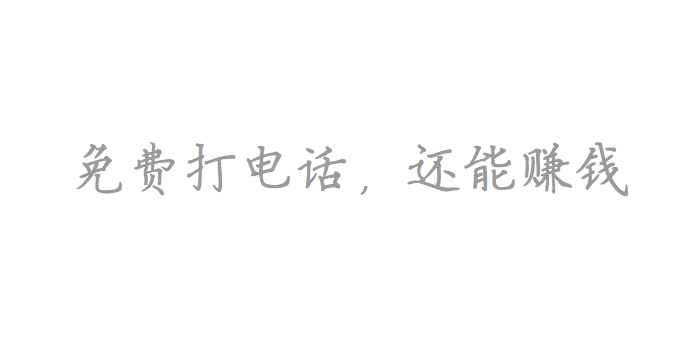
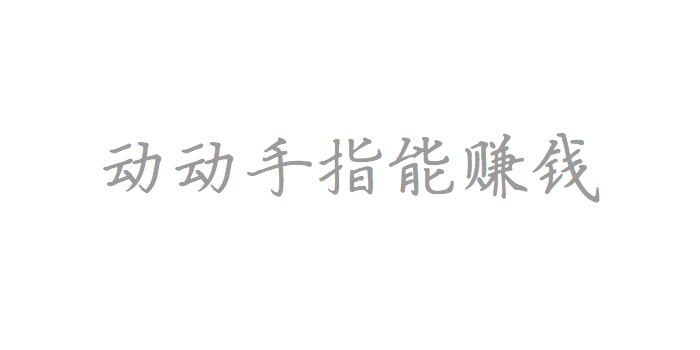
bug修改 UI调整

Changed region(s): [[0.09, 0.3714, 0.9, 0.5714]]

diff --git a/YooSee/YooSee/FunctionVC/Home/HomeViewController.m b/YooSee/YooSee/FunctionVC/Home/HomeViewController.m
@@ -13,13 +13,20 @@
 #define SECTION_HEIGHT              15.0 * CURRENT_SCALE
 #define ROW1_HEIGHT                 50.0
 #define ROW2_HEIGHT                 190.0 * CURRENT_SCALE
-#define ROW3_HEIGHT                 90.0
-#define HEADER_LABEL_WIDTH          60.0
+#define ROW3_HEIGHT                 120.0
+#define HEADER_LABEL_WIDTH          30.0
 #define HEADER_NEW_WIDTH            240.0 * CURRENT_SCALE
 #define BUTTON_TITLE_HEIGHT         30.0 * CURRENT_SCALE
 #define ITEM_BUTTON_TITLE_HEIGHT    25.0 * CURRENT_SCALE
 
 #define LINE_COLOR                  RGB(239.0,239.0,239.0)
+
+#define TIP_TEXT                @" 特别推荐 "
+#define TIP_TEXT_FONT           FONT(14.0)
+#define ADD_X                   10.0
+#define LABEL_HEIGHT            30.0
+#define LINE_HEIGHT             0.5
+#define LINE_SPACE_X            30 * CURRENT_SCALE
 
 #import "HomeViewController.h"
 #import "LoginViewController.h"
@@ -48,7 +55,7 @@
 @property (nonatomic, strong) UILabel *headNewLabel;
 @property (nonatomic, strong) NSArray *headNewsListArray;
 @property (nonatomic, strong) UIView *mainView;
-@property (nonatomic, strong) UIImageView *telephoneView;
+@property (nonatomic, strong) UIImageView *commendView;
 @property (nonatomic, strong) NSTimer *timer;
 @property (nonatomic, assign) int newIndex;
 
@@ -88,7 +95,7 @@
 {
     [self addTableView];
     [self addTableViewHeader];
-    [self addTelephoneView];
+    [self addCommendView];
 }
 
 - (void)addTableView
@@ -112,7 +119,7 @@
         return;
     }
     UIImageView *headerView = [CreateViewTool createImageViewWithFrame:CGRectMake(0, 0, self.table.frame.size.width, ADV_HEIGHT + SPACE_Y) placeholderImage:nil];
-    
+    headerView.backgroundColor = [UIColor whiteColor];
     float y = SPACE_Y;
     float x = SPACE_X;
     NSMutableArray *imageArray = [NSMutableArray arrayWithCapacity:0];
@@ -184,11 +191,15 @@
         UITapGestureRecognizer *tapGesture = [[UITapGestureRecognizer alloc] initWithTarget:self action:@selector(tapGestureHandle:)];
         [_headNewsView addGestureRecognizer:tapGesture];
         
-        UILabel *titleLabel = [CreateViewTool createLabelWithFrame:CGRectMake(0, 0, HEADER_LABEL_WIDTH, _headNewsView.frame.size.height) textString:@"头条" textColor:[UIColor orangeColor] textFont:FONT(16.0)];
-        titleLabel.textAlignment = NSTextAlignmentCenter;
-        [_headNewsView addSubview:titleLabel];
+//        UILabel *titleLabel = [CreateViewTool createLabelWithFrame:CGRectMake(0, 0, HEADER_LABEL_WIDTH, _headNewsView.frame.size.height) textString:@"头条" textColor:[UIColor orangeColor] textFont:FONT(16.0)];
+//        titleLabel.textAlignment = NSTextAlignmentCenter;
+//        [_headNewsView addSubview:titleLabel];
         
-        float x = titleLabel.frame.origin.x + titleLabel.frame.size.width;
+        UIImageView *iconImageView = [CreateViewTool createImageViewWithFrame:CGRectMake(HEADER_LABEL_WIDTH/2, (_headNewsView.frame.size.height - 15.0)/2, HEADER_LABEL_WIDTH, 15.0) placeholderImage:[UIImage imageNamed:@"img_hot"]];
+        iconImageView.contentMode = UIViewContentModeScaleAspectFit;
+        [_headNewsView addSubview:iconImageView];
+        
+        float x = iconImageView.frame.origin.x + iconImageView.frame.size.width + HEADER_LABEL_WIDTH/2;
         float y = 5.0;
         float width = 2.0;
         float add_x = 10.0;
@@ -320,36 +331,44 @@
     }
 }
 
-#pragma mark 电话视图
-- (void)addTelephoneView
+
+#pragma mark 添加精彩推荐
+- (void)addCommendView
 {
-    if (!_telephoneView)
+    if (!_commendView)
     {
-        UIImage *image = [UIImage imageNamed:@"icon_home_phone_bg"];
-        float width = image.size.width/2 * CURRENT_SCALE;
-        float height = image.size.height/2 * CURRENT_SCALE;
-        float x = (self.table.frame.size.width - width)/2;
-        float y = self.table.frame.size.height - height;
-        _telephoneView = [CreateViewTool createImageViewWithFrame:CGRectMake(x, y, width, height) placeholderImage:image];
+        float width0 = self.table.frame.size.width;
+        float height0 = ROW3_HEIGHT;
+        float x0 = 0;
+        float y0 = self.table.frame.size.height - height0;
+        _commendView = [CreateViewTool createImageViewWithFrame:CGRectMake(x0, y0, width0, height0) placeholderImage:nil];
+        _commendView.backgroundColor = [UIColor whiteColor];
+        float y = 10.0;
+        CGSize size = [TIP_TEXT sizeWithAttributes:@{NSFontAttributeName:TIP_TEXT_FONT}];
+        float width = size.width + 2 * ADD_X;
+        UILabel *tipLabel = [CreateViewTool createLabelWithFrame:CGRectMake((self.view.frame.size.width - width)/2, y, width, LABEL_HEIGHT) textString:TIP_TEXT textColor:DE_TEXT_COLOR textFont:TIP_TEXT_FONT];
+        tipLabel.textAlignment = NSTextAlignmentCenter;
+        [_commendView addSubview:tipLabel];
+        
+        y += (tipLabel.frame.size.height - LINE_HEIGHT)/2;
+        
+        UIImageView *leftLineView = [CreateViewTool createImageViewWithFrame:CGRectMake(LINE_SPACE_X, y, tipLabel.frame.origin.x - LINE_SPACE_X, LINE_HEIGHT)placeholderImage:nil];
+        leftLineView.backgroundColor = DE_TEXT_COLOR;
+        [_commendView addSubview:leftLineView];
+        
+        UIImageView *rightLineView = [CreateViewTool createImageViewWithFrame:CGRectMake(self.view.frame.size.width - leftLineView.frame.size.width - LINE_SPACE_X, y, tipLabel.frame.origin.x - LINE_SPACE_X, LINE_HEIGHT)placeholderImage:nil];
+        rightLineView.backgroundColor = DE_TEXT_COLOR;
+        [_commendView addSubview:rightLineView];
         
         if (SCREEN_HEIGHT == 480.0)
         {
-            y = ROW3_HEIGHT - height;
-            _telephoneView.frame = CGRectMake(x, y, width, height);
+            y0 = ROW3_HEIGHT - height0;
+            _commendView.frame = CGRectMake(x0, y0, width0, height0);
         }
         else
         {
-            [self.view addSubview:_telephoneView];
+            [self.view addSubview:_commendView];
         }
-        
-        UIImage *buttonImage = [UIImage imageNamed:@"icon_home_phone_up"];
-        float button_width = buttonImage.size.width/2 * CURRENT_SCALE;
-        float button_height = buttonImage.size.height/2 * CURRENT_SCALE;
-        x = (width - button_width)/2;
-        y = x;
-        UIButton *button = [CreateViewTool createButtonWithFrame:CGRectMake(x, y, button_width, button_height) buttonImage:@"icon_home_phone" selectorName:@"" tagDelegate:self];
-        [_telephoneView addSubview:button];
-    
     }
 }
 
@@ -601,6 +620,13 @@
 
 #pragma mark UITableViewDelegate&UITableViewDataSource
 
+- (UIView *)tableView:(UITableView *)tableView viewForHeaderInSection:(NSInteger)section
+{
+    UIImageView *headerView = [CreateViewTool createImageViewWithFrame:CGRectMake(0, 0, tableView.frame.size.width, SECTION_HEIGHT) placeholderImage:nil];
+    headerView.backgroundColor = section == 0 ? [UIColor whiteColor] : VIEW_BG_COLOR;
+    return headerView;
+}
+
 - (NSInteger)numberOfSectionsInTableView:(UITableView *)tableView
 {
     return [self.rowHeightArray count];
@@ -638,6 +664,8 @@
         [view removeFromSuperview];
     }
     
+    cell.backgroundColor = (indexPath.section == 1) ? [UIColor clearColor] : [UIColor whiteColor];
+    
     if (indexPath.section == 0)
     {
         [self initHeadNewView];
@@ -650,8 +678,8 @@
     }
     else if (indexPath.section == 2)
     {
-        [self addTelephoneView];
-        [cell.contentView addSubview:self.telephoneView];
+        [self addCommendView];
+        [cell.contentView addSubview:self.commendView];
     }
     
 

diff --git a/YooSee/YooSee/FunctionVC/Personal/InviteFriendViewController.m b/YooSee/YooSee/FunctionVC/Personal/InviteFriendViewController.m
@@ -44,9 +44,11 @@
     CGRect frame = tiplabel.frame;
     frame.size.height = height;
     tiplabel.frame = frame;
+    tiplabel.hidden = YES;
     [self.view addSubview:tiplabel];
     
-    start_y += height + 2 * ADD_Y;
+    //start_y += height + 2 * ADD_Y;
+    start_y += height;
     UIImage *image = [UIImage imageNamed:@"yuying"];
     UIImageView  *imageView = [CreateViewTool createImageViewWithFrame:CGRectMake((self.view.frame.size.width - QRCODE_WH)/2, start_y, QRCODE_WH, QRCODE_WH) placeholderImage:image];
     [self.view addSubview:imageView];

diff --git a/YooSee/YooSee/FunctionVC/Personal/PersonalInfo/PersonalInfoViewController.m b/YooSee/YooSee/FunctionVC/Personal/PersonalInfo/PersonalInfoViewController.m
@@ -38,7 +38,7 @@
     self.title = @"个人资料";
     [self addBackItem];
     
-    _titleArray = @[@[@"  姓名",@"  电话(ID)",@"  性别"],@[@"  收获地址"],@[@"  支付宝绑定",@"  支付密码"],@[@"  修改登录密码"]];
+    _titleArray = @[@[@"  姓名",@"  电话(ID)",@"  性别"],@[@"  收货地址"],@[@"  支付宝绑定",@"  支付密码"],@[@"  修改登录密码"]];
 
     [self initUI];
 

diff --git a/YooSee/YooSee/Common/CommonHeader/ProductHeader.h b/YooSee/YooSee/Common/CommonHeader/ProductHeader.h
@@ -14,7 +14,7 @@
 //产品名
 #define PRODUCT_NAME                @"yuying"
 //版本号
-#define PRODUCT_VERSION             @"2.02"
+#define PRODUCT_VERSION             @"3.00"
 //渠道号
 #define CHANNEL_ID                  @"0001"
 //平台
